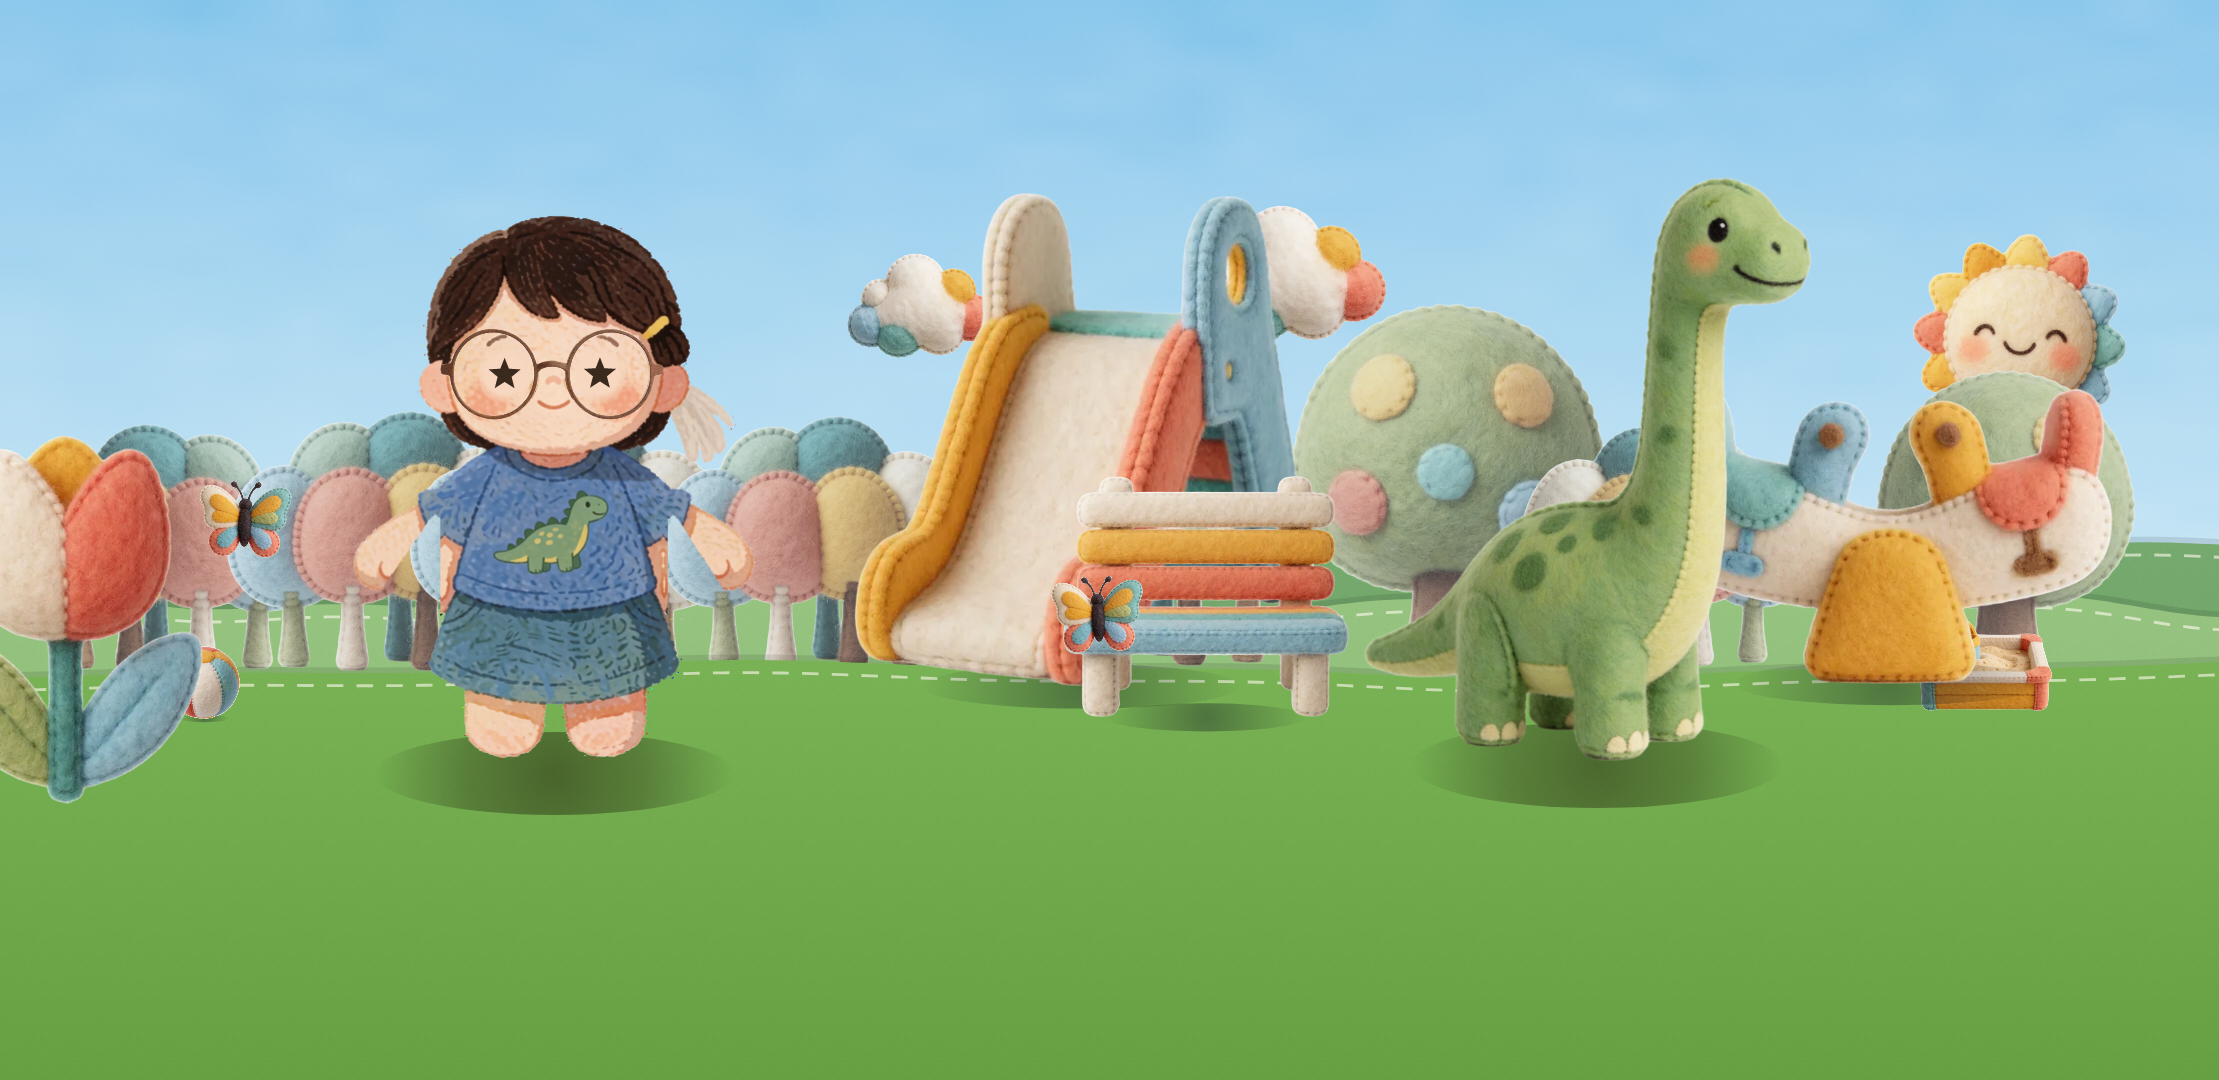
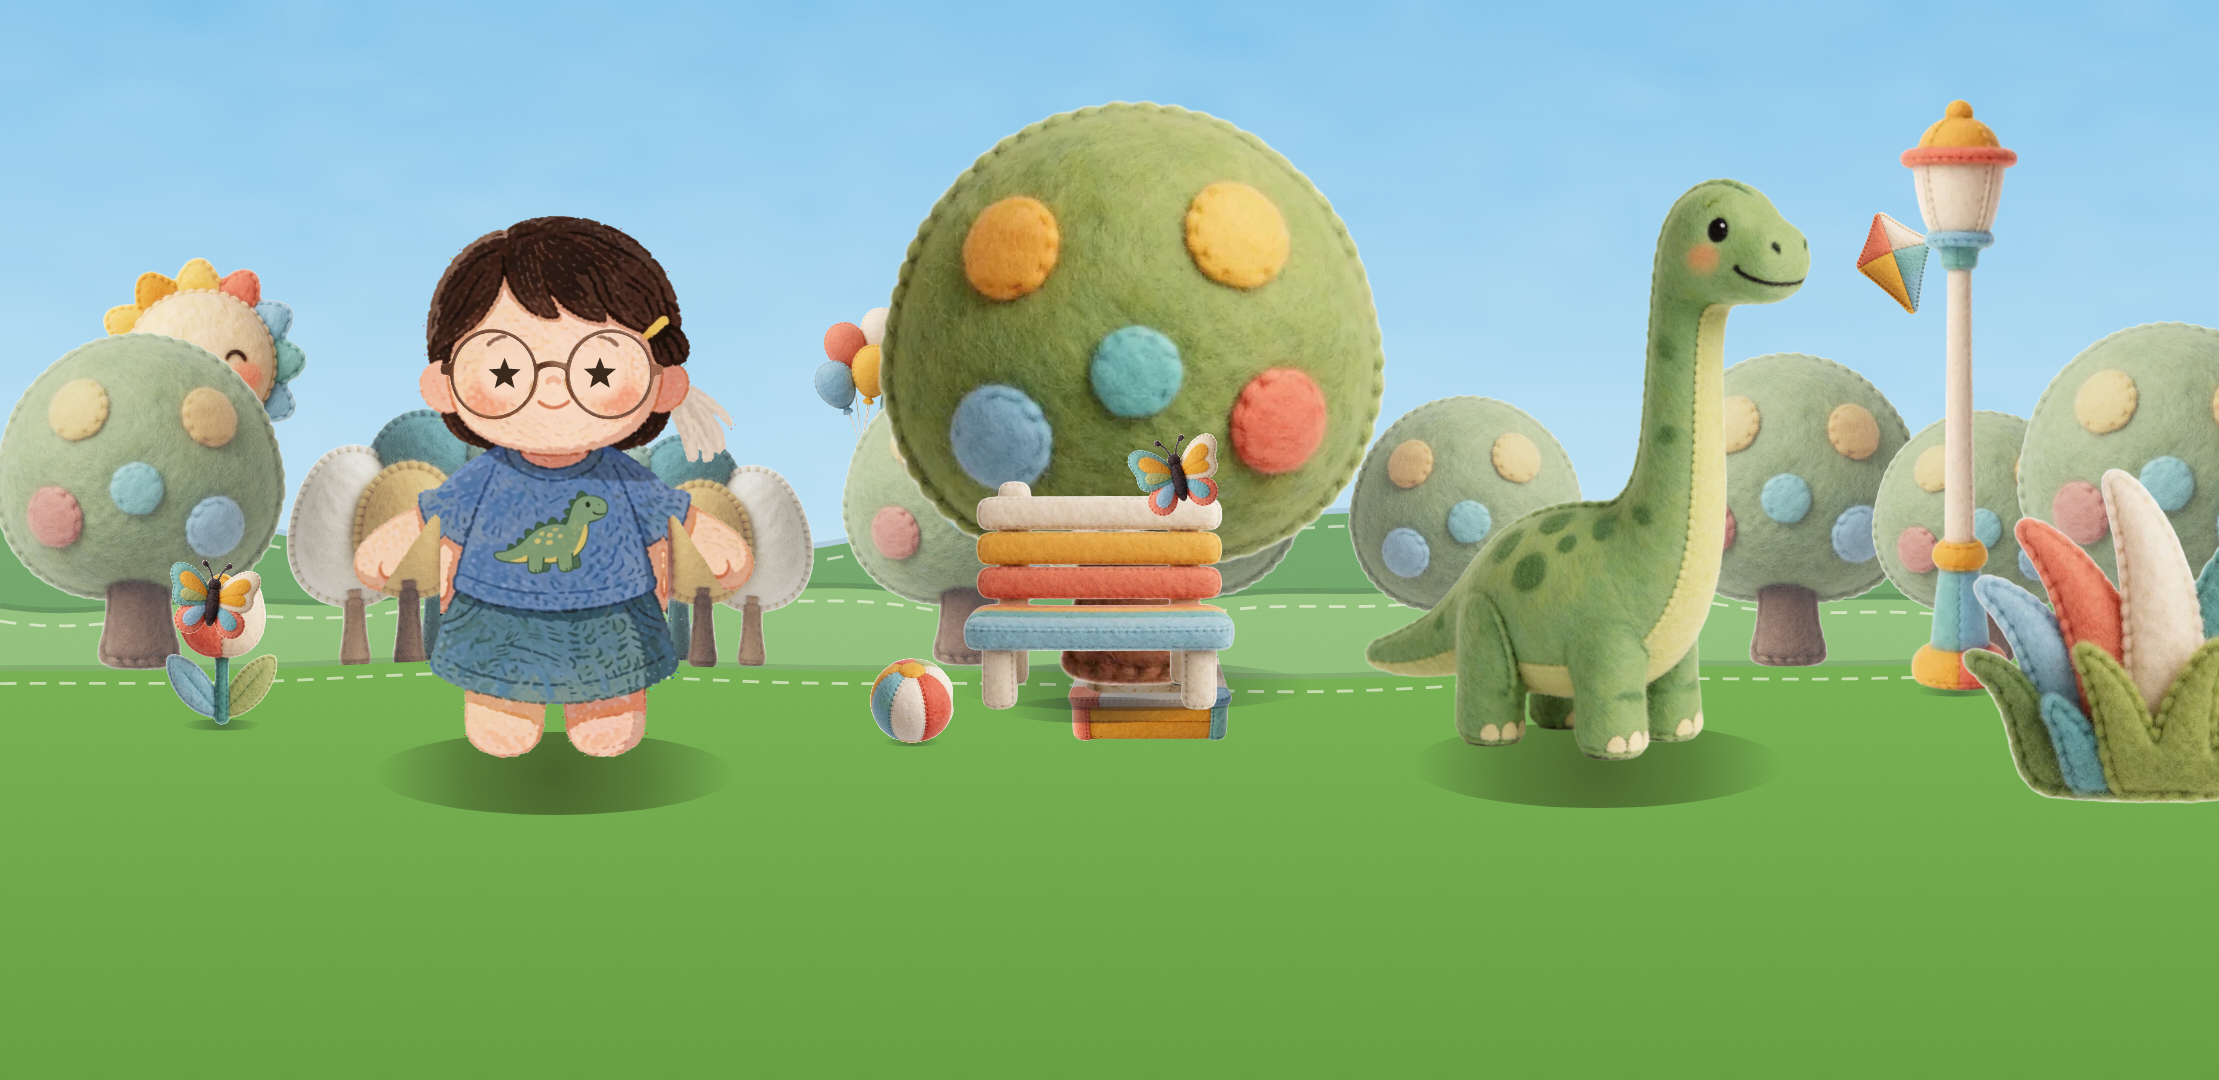
art(kit): street lamp re-baked with its pole and base, back on the park stage
The #109 lamp was only the lantern head, so at size 1.8 it read as a giant lantern and was
left out of the park kit. gen_kit.py now bakes it on a tall 768x1344 board with a pole/base
phrase (and takes --only); the new piece (aspect 0.201) is back in PARK_KIT.

Changed region(s): [[0.2799, 0.0917, 0.7463, 0.7028], [0.7463, 0.0917, 1.0, 0.7639], [0.0, 0.2444, 0.2177, 0.7333]]

diff --git a/android/app/src/main/java/com/example/finalproject_demo/demo/scene/SceneKit.kt b/android/app/src/main/java/com/example/finalproject_demo/demo/scene/SceneKit.kt
@@ -96,8 +96,7 @@ private val SWING = KitPiece("swing", "kit_park_swing", PieceRole.LANDMARK, 1.5f
 private val SEESAW = KitPiece("seesaw", "kit_park_seesaw", PieceRole.LANDMARK, 0.8f, 1.510f, words = listOf("시소"))
 private val SANDBOX = KitPiece("sandbox", "kit_park_sandbox", PieceRole.FLAT, 0.2f, 1.467f, words = listOf("모래", "모래놀이"))
 private val BENCH = KitPiece("bench", "kit_park_bench", PieceRole.COVER, 0.5f, 1.188f, copies = 1, words = listOf("의자", "벤치"))
-@Suppress("unused")
-private val LAMP = KitPiece("street_lamp", "kit_park_street_lamp", PieceRole.LANDMARK, 1.8f, 0.602f, words = listOf("가로등", "불"))
+private val LAMP = KitPiece("street_lamp", "kit_park_street_lamp", PieceRole.LANDMARK, 1.8f, 0.201f, words = listOf("가로등", "불"))
 private val BALL = KitPiece("ball", "kit_park_ball", PieceRole.COVER, 0.15f, 0.988f, copies = 1, words = listOf("공"))
 private val BALLOONS = KitPiece("balloons", "kit_park_balloons", PieceRole.SKY_FILL, 0.4f, 0.668f, PieceBase.CENTER,
     tilt = 10f, copies = 1, words = listOf("풍선"))
@@ -114,9 +113,8 @@ val PARK_KIT = SceneKitDef(
     pieces = listOf(
         SUN, CLOUD, BALLOONS, KITE, BUTTERFLY,
         TREE_FAR, TREE_ROW,
-        // LAMP is left out for now: PR #109 baked only the lantern head without a pole, so at the doc's size 1.8
-        // it read as a giant lantern in the middle of the park (10-05 screenshot). Back in once re-baked.
-        TREE, SLIDE, SWING, SEESAW,
+        // LAMP re-baked with its pole and base (10-05) — the #109 piece was only the lantern head and read as a giant lantern
+        TREE, SLIDE, SWING, SEESAW, LAMP,
         BUSH, TULIP, DAISY, STONE, GRASS, BENCH, BALL,
         SANDBOX,
         TULIP_FRONT, GRASS_FRONT,

diff --git a/android/tools/gen_kit.py b/android/tools/gen_kit.py
@@ -1,7 +1,7 @@
 # -*- coding: utf-8 -*-
 """배경 조각 굽기 (#97 · docs/배경_조각_목록.md §3) — gen_coop.py 와 같은 파이프라인(krea2 turbo → BiRefNet).
 
-    python tools/gen_kit.py OUT_DIR [묶음 ...] [--seeds N]
+    python tools/gen_kit.py OUT_DIR [묶음 ...] [--seeds N] [--only 조각,조각]
 
 묶음: common · park (1순위). 결과는 OUT_DIR/kit_{묶음}_{조각}_{후보}.png — 눈으로 고른 뒤 넘긴다.
 """
@@ -30,7 +30,9 @@ KITS = {
         "seesaw": "seesaw",
         "sandbox": "low square wooden sandbox filled with sand and a small bucket, no roof",   # 지붕 달린 가판대가 나왔다
         "bench": "park bench",
-        "street_lamp": "old street lamp",
+        # 「old street lamp」는 등 머리만 크게 나와 공원 한가운데 거대한 등이 됐다(#109 · 10-05 조장) — 기둥 · 받침까지, 세로 판에
+        "street_lamp": "old street lamp standing on a long thin straight pole with a small round base on the ground, "
+                       "the whole lamp from base to small lamp head, the pole is much taller than the lamp head",
         "ball": "red and white ball",
         "balloons": "bunch of balloons",
         "kite": "diamond kite",
@@ -38,22 +40,30 @@ KITS = {
     },
 }
 
+# 세로로 긴 조각은 세로 판에 굽는다 — 정사각 판에서는 위아래가 잘렸다
+SIZES = {"street_lamp": (768, 1344)}
+
 if __name__ == "__main__":
     out = sys.argv[1]
     args = sys.argv[2:]
     seeds = 3
     if "--seeds" in args:
         i = args.index("--seeds"); seeds = int(args[i + 1]); args = args[:i] + args[i + 2:]
+    only = None
+    if "--only" in args:
+        i = args.index("--only"); only = set(args[i + 1].split(",")); args = args[:i] + args[i + 2:]
     get("/system_stats")
     os.makedirs(out, exist_ok=True)
     for kit in (args or list(KITS)):
         for key, phrase in KITS[kit].items():
+            if only and key not in only:
+                continue
             name = f"kit_{kit}_{key}"
             for k in range(seeds):
                 path = os.path.join(out, f"{name}_{k}.png")
                 if os.path.exists(path):
                     continue
-                img = run(txt2img(f"a cute felt {phrase}, " + CUT, 1024, 1024, name, random.randint(1, 2**31)), f"{name}#{k}")
+                img = run(txt2img(f"a cute felt {phrase}, " + CUT, *SIZES.get(key, (1024, 1024)), name, random.randint(1, 2**31)), f"{name}#{k}")
                 if not img:
                     continue
                 cut = run(bgremove(upload(img), name), name + " cut")

diff --git a/art/bg_kit/README.md b/art/bg_kit/README.md
@@ -13,6 +13,7 @@
 | 둥근 나무 | round green tree | round green tree with a short brown trunk | 줄기 없이 덤불과 똑같이 나왔다 |
 | 모래놀이터 | sandbox with a bucket | low square wooden sandbox filled with sand and a small bucket, no roof | 지붕 달린 가판대가 나왔다 |
 | 돌 | round grey stone | plain smooth round grey stone, no spots | 색 점이 박혀 알처럼 보였다 — 다시 구워도 점은 남는다(아래) |
+| 가로등 | old street lamp | old street lamp standing on a long thin straight pole with a small round base … (세로 768×1344 판) | 등 머리만 크게 나와 공원 한가운데 거대한 등이 됐다 — 10-05 다시 구움(후보 4장 중 1번째) |
 
 ## 알아 둘 것
 
